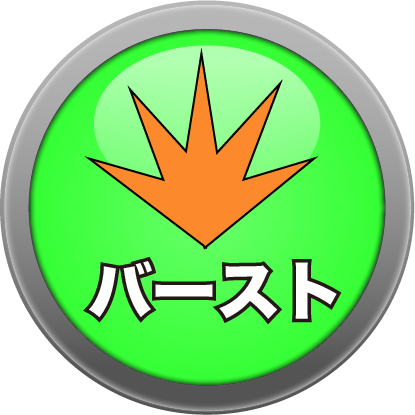
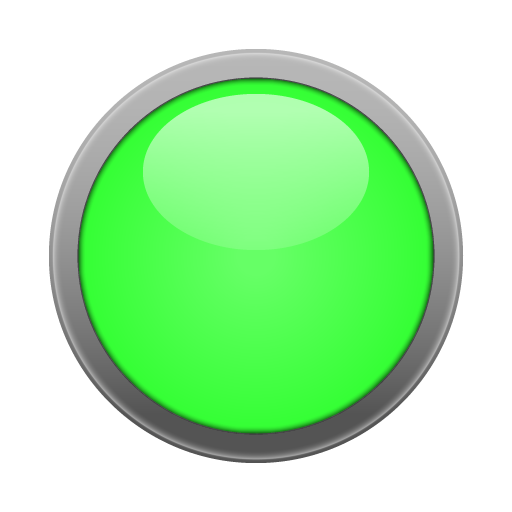
バースト使用後はラベルが非表示になるようにした

diff --git a/src/js/game-object/burst-button/view/burst-button-view.js b/src/js/game-object/burst-button/view/burst-button-view.js
@@ -33,6 +33,7 @@ type Param = {
 /** バーストボタンのビュー */
 export class BurstButtonView {
   _burstButton: SimpleImageMesh;
+  _label: SimpleImageMesh;
   _buttonDisabled: SimpleImageMesh;
   _overlap: ButtonOverlap;
   _group: typeof THREE.Group;
@@ -47,6 +48,15 @@ export class BurstButtonView {
       canvasSize: CANVAS_SIZE,
       meshSize: CANVAS_SIZE,
       image: burstButton
+    });
+
+    const label = param.resources.canvasImages
+      .find(v => v.id === CANVAS_IMAGE_IDS.BURST_BUTTON_LABEL)
+      ?.image ?? new Image();
+    this._label = new SimpleImageMesh({
+      canvasSize: CANVAS_SIZE,
+      meshSize: CANVAS_SIZE,
+      image: label
     });
 
     const buttonDisabledResource = param.resources.canvasImages
@@ -71,6 +81,7 @@ export class BurstButtonView {
 
     this._group = new THREE.Group();
     this._group.add(this._burstButton.getObject3D());
+    this._group.add(this._label.getObject3D());
     this._group.add(this._buttonDisabled.getObject3D());
     this._group.add(this._overlap.getObject3D());
     this._group.scale.set(GROUP_SCALE, GROUP_SCALE, GROUP_SCALE);
@@ -91,6 +102,9 @@ export class BurstButtonView {
    */
   engage(model: BurstButtonModel, preRender: PreRender): void {
     this._burstButton.setOpacity(model.opacity);
+
+    const labelOpacity = !model.canBurst ? 0 : model.opacity;
+    this._label.setOpacity(labelOpacity);
 
     const disabledOpacity = model.canBurst ? 0 : model.opacity;
     this._buttonDisabled.setOpacity(disabledOpacity);

diff --git a/src/js/resource/canvas-image.js b/src/js/resource/canvas-image.js
@@ -31,6 +31,7 @@ export const CANVAS_IMAGE_IDS = {
   DIS_ACTIVE_BATTERY_SELECTOR_NUMBER: 'DIS_ACTIVE_BATTERY_SELECTOR_NUMBER',
   TURN_INDICATOR: 'TURN_INDICATOR',
   BURST_BUTTON: 'BURST_BUTTON',
+  BURST_BUTTON_LABEL: 'BURST_BUTTON_LABEL',
   PILOT_BUTTON: 'PILOT_BUTTON',
   PILOT_BUTTON_LABEL: 'PILOT_BUTTON_LABEL',
   BIG_BUTTON_DISABLED: 'BIG_BUTTON_DISABLED',
@@ -92,6 +93,10 @@ export const CANVAS_IMAGE_CONFIGS: CanvasImageConfig[] = [
   {
     id: CANVAS_IMAGE_IDS.BURST_BUTTON,
     path: 'button/burst-button.png',
+  },
+  {
+    id: CANVAS_IMAGE_IDS.BURST_BUTTON_LABEL,
+    path: 'button/burst-button-label.png',
   },
   {
     id: CANVAS_IMAGE_IDS.PILOT_BUTTON,
